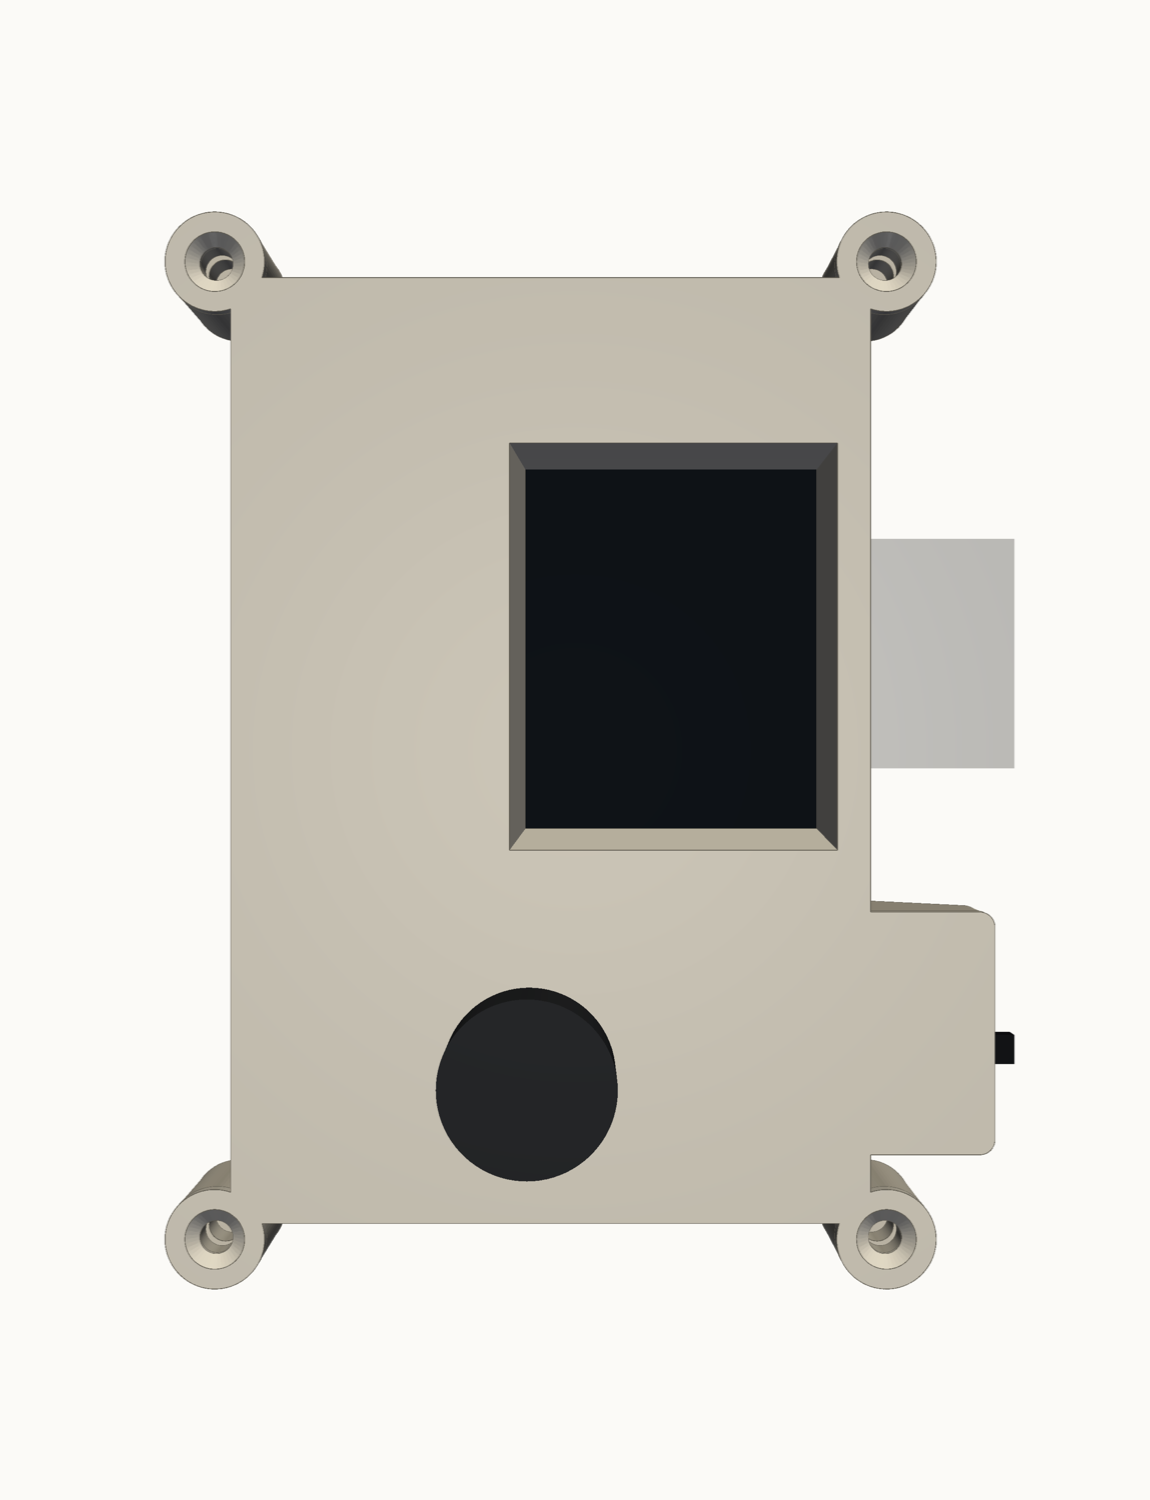
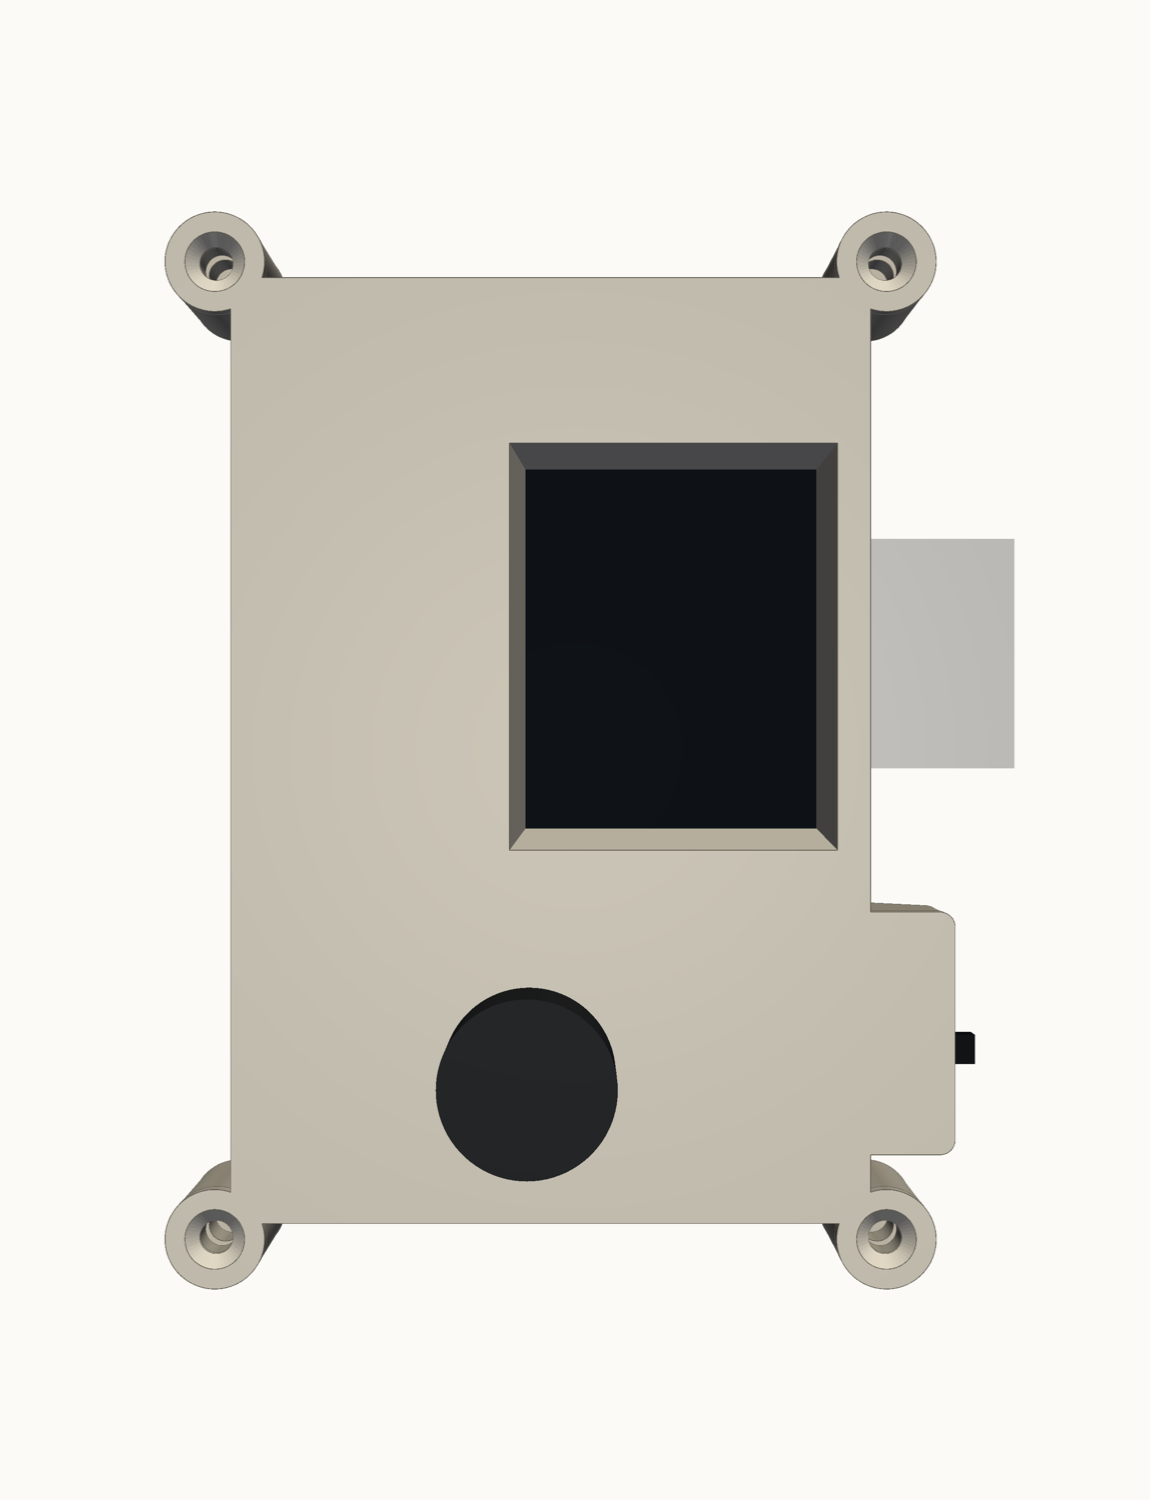
Case: shallower switch pod, pocket 6 mm deep instead of 10

Changed region(s): [[0.8217, 0.5827, 0.8826, 0.7973]]

diff --git a/hardware/case/paata_case.py b/hardware/case/paata_case.py
@@ -48,10 +48,11 @@ ENC_X, ENC_Y = 27.5, yd(76.7)
 WIN_X, WIN_Y, WIN_W, WIN_H = 41.9, yd(34.5), 30.0, 37.0      # screen window at the screen face
 
 # slide switch pod on the right wall (switch: body 10.5 x 5.7 x 5.0, 20 across the ears)
-# Owner's sizes are the inside of the pocket: 10 out from the wall, 20 long, 6 high.
+# Inside of the pocket: 6 out from the wall (switch body 5.0 plus 1), 20 long, 6 high.
+# The terminals and their wires use the opening through the case wall and the gap beside the charger.
 # Walls are added on top. The pocket is open at the top and closed by the lid, so the
 # switch drops in from above.
-POCKET_D, POCKET_L, POCKET_H = 10.0, 20.4, 6.2
+POCKET_D, POCKET_L, POCKET_H = 6.0, 20.4, 6.2       # depth was 10: too much empty space behind the terminals (owner, after the second print)
 POD_WALL = 2.5                        # outer wall, which the ears screw to
 POD_END = 2.0                         # end walls
 POD_FLOOR = 2.0

diff --git a/.claude/CLAUDE.md b/.claude/CLAUDE.md
@@ -156,6 +156,9 @@ Board is built and wired (2026-11-15). Owner's caliper readings of the finished 
   ears screwed to the pod's outer wall. About
   83 × 108 × 20.5 mm over lugs and pod. Port, window and knob positions are estimates
   from photos; no board supports yet. Not printable until those are measured.
+  Pod made shallower after the second print (owner: too much gap behind the switch
+  terminals): pocket 6 out instead of 10, so the pod stands 8.5 out and the case is about
+  79 wide. The terminals sit in the wall opening and the gap beside the charger.
   Support-free printing (2026-11-15): base prints floor down, lid prints outside face down
   (`lid.stl` is exported in that orientation). Pod underside is a real 45° slope (it was
   missing from the model before), slider slot is open to the top, jack hole has a 45°
